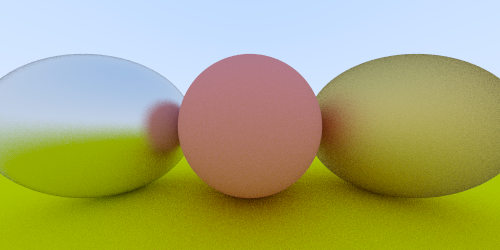
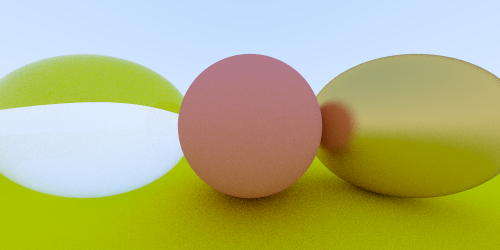
Added dielectric materials

diff --git a/src/material.rs b/src/material.rs
@@ -12,6 +12,43 @@ pub trait Material {
     fn scatter(&self, ray: Ray, hit_record: Hit) -> Option<Scatter>;
 }
 
+fn random_in_unit_sphere() -> Vec3 {
+    let mut p = Vec3::new(0.0, 0.0, 0.0);
+    loop {
+        p = Vec3::new(
+            rand::random::<f32>(),
+            rand::random::<f32>(),
+            rand::random::<f32>(),
+        ) * 2.0 - Vec3::new(1.0, 1.0, 1.0);
+        if p.dot(p) < 1.0 {
+            break;
+        }
+    }
+    p
+}
+
+fn reflect(v: Vec3, n: Vec3) -> Vec3 {
+    v - n * (2.0 * v.dot(n))
+}
+
+fn refract(v: Vec3, n: Vec3, ni_over_nt: f32) -> Option<Vec3> {
+    let uv = v.normal();
+    let dt = uv.dot(n);
+    let discriminant = 1.0 - ni_over_nt * ni_over_nt * (1.0 - dt * dt);
+    if discriminant > 0.0 {
+        let refracted = (uv - n * dt) * ni_over_nt - n * discriminant.sqrt();
+        Some(refracted)
+    } else {
+        None
+    }
+}
+
+fn schlick(cosine: f32, ref_idx: f32) -> f32 {
+    let r0 = (1.0 - ref_idx) / (1.0 + ref_idx);
+    let r0 = r0 * r0;
+    r0 + (1.0 - r0) * (1.0 - cosine).powi(5)
+}
+
 pub struct Lambertian {
     albedo: Vec3,
 }
@@ -20,26 +57,11 @@ impl Lambertian {
     pub fn new(albedo: Vec3) -> Self {
         Lambertian { albedo: albedo }
     }
-
-    fn random_in_unit_sphere() -> Vec3 {
-        let mut p = Vec3::new(0.0, 0.0, 0.0);
-        loop {
-            p = Vec3::new(
-                rand::random::<f32>(),
-                rand::random::<f32>(),
-                rand::random::<f32>(),
-            ) * 2.0 - Vec3::new(1.0, 1.0, 1.0);
-            if p.dot(p) < 1.0 {
-                break;
-            }
-        }
-        p
-    }
 }
 
 impl Material for Lambertian {
     fn scatter(&self, ray: Ray, hit_record: Hit) -> Option<Scatter> {
-        let target = hit_record.normal + Lambertian::random_in_unit_sphere();
+        let target = hit_record.normal + random_in_unit_sphere();
         let scattered = Ray::new(hit_record.p, target);
         let attenuation = self.albedo;
         Some(Scatter {
@@ -51,43 +73,26 @@ impl Material for Lambertian {
 
 pub struct Metal {
     albedo: Vec3,
-    fuzz: f32
+    fuzz: f32,
 }
 
 impl Metal {
     pub fn new(albedo: Vec3, fuzz: f32) -> Self {
-        let f = if fuzz < 1.0 {
-            fuzz
-        } else {
-            1.0
-        };
-        Metal { albedo: albedo, fuzz: f }
-    }
-
-    fn reflect(v: Vec3, n: Vec3) -> Vec3 {
-        v - n * (2.0 * v.dot(n))
-    }
-
-    fn random_in_unit_sphere() -> Vec3 {
-        let mut p = Vec3::new(0.0, 0.0, 0.0);
-        loop {
-            p = Vec3::new(
-                rand::random::<f32>(),
-                rand::random::<f32>(),
-                rand::random::<f32>(),
-            ) * 2.0 - Vec3::new(1.0, 1.0, 1.0);
-            if p.dot(p) < 1.0 {
-                break;
-            }
+        let f = if fuzz < 1.0 { fuzz } else { 1.0 };
+        Metal {
+            albedo: albedo,
+            fuzz: f,
         }
-        p
     }
 }
 
 impl Material for Metal {
     fn scatter(&self, ray: Ray, hit_record: Hit) -> Option<Scatter> {
-        let reflected = Metal::reflect(ray.direction().normal(), hit_record.normal);
-        let scattered = Ray::new(hit_record.p, reflected + Metal::random_in_unit_sphere() * self.fuzz);
+        let reflected = reflect(ray.direction().normal(), hit_record.normal);
+        let scattered = Ray::new(
+            hit_record.p,
+            reflected + random_in_unit_sphere() * self.fuzz,
+        );
         let attenuation = self.albedo;
         if scattered.direction().dot(hit_record.normal) > 0.0 {
             Some(Scatter {
@@ -96,6 +101,49 @@ impl Material for Metal {
             })
         } else {
             None
+        }
+    }
+}
+
+pub struct Dielectric {
+    ri: f32,
+}
+
+impl Dielectric {
+    pub fn new(ri: f32) -> Self {
+        Dielectric { ri: ri }
+    }
+}
+
+impl Material for Dielectric {
+    fn scatter(&self, ray: Ray, hit_record: Hit) -> Option<Scatter> {
+        let attenuation = Vec3::new(1.0, 1.0, 1.0);
+        let reflected = reflect(ray.direction(), hit_record.normal);
+        let (outward_normal, ni_over_nt, cosine) = if ray.direction().dot(hit_record.normal) > 0.0 {
+            (-hit_record.normal, self.ri, self.ri * ray.direction().dot(hit_record.normal) / ray.direction().length())
+        } else {
+            (hit_record.normal, 1.0/self.ri, -ray.direction().dot(hit_record.normal) / ray.direction().length())
+        };
+        match refract(ray.direction(), outward_normal, ni_over_nt) {
+            Some(refracted) => {
+                let reflect_prob = schlick(cosine, self.ri);
+                let scattered = if (rand::random::<f32>() < reflect_prob) {
+                    Ray::new(hit_record.p, reflected)
+                } else {
+                    Ray::new(hit_record.p, refracted)
+                };
+                Some(Scatter {
+                    attenuation: attenuation,
+                    scattered: scattered,
+                })
+            }
+            None => {
+                let scattered = Ray::new(hit_record.p, reflected);
+                Some(Scatter {
+                    attenuation: attenuation,
+                    scattered: scattered,
+                })
+            }
         }
     }
 }

diff --git a/src/main.rs b/src/main.rs
@@ -12,7 +12,7 @@ use std::path::Path;
 
 use camera::Camera;
 use geometry::{Hitable, Sphere};
-use material::{Lambertian, Metal};
+use material::{Lambertian, Metal, Dielectric};
 use vec3::{Ray, Vec3};
 
 fn color(ray: Ray, world: &Hitable, depth: u8) -> Vec3 {
@@ -56,12 +56,12 @@ fn main() {
     world.push(Box::new(Sphere::new(
         Vec3::new(1.0, 0.0, -1.0),
         0.5,
-        Box::new(Metal::new(Vec3::new(0.8, 0.6, 0.2), 1.0)),
+        Box::new(Metal::new(Vec3::new(0.8, 0.6, 0.2), 0.3)),
     )));
     world.push(Box::new(Sphere::new(
         Vec3::new(-1.0, 0.0, -1.0),
         0.5,
-        Box::new(Metal::new(Vec3::new(0.8, 0.8, 0.8), 0.3)),
+        Box::new(Dielectric::new(1.5)),
     )));
 
     let mut image_buf = image::ImageBuffer::new(width, height);

diff --git a/src/vec3.rs b/src/vec3.rs
@@ -1,5 +1,5 @@
 use std::f32;
-use std::ops::{Add, Sub, Mul, Div};
+use std::ops::{Add, Sub, Mul, Div, Neg};
 
 #[derive(Clone, Copy)]
 pub struct Vec3(f32, f32, f32);
@@ -85,6 +85,14 @@ impl Div<f32> for Vec3 {
 
     fn div(self, m: f32) -> Vec3 {
         self * (1.0 / m)
+    }
+}
+
+impl Neg for Vec3 {
+    type Output = Vec3;
+
+    fn neg(self) -> Vec3 {
+        Vec3::new(-self.0, -self.1, -self.2)
     }
 }
 
